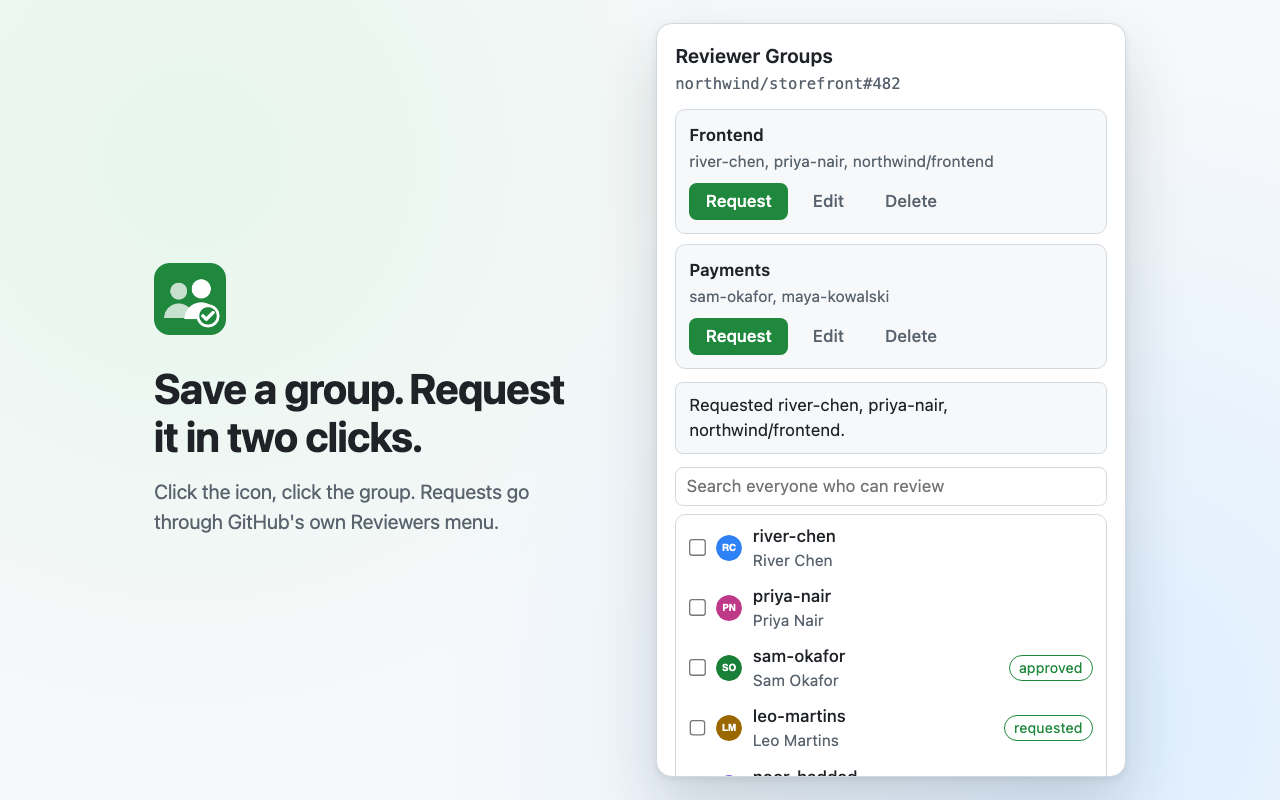
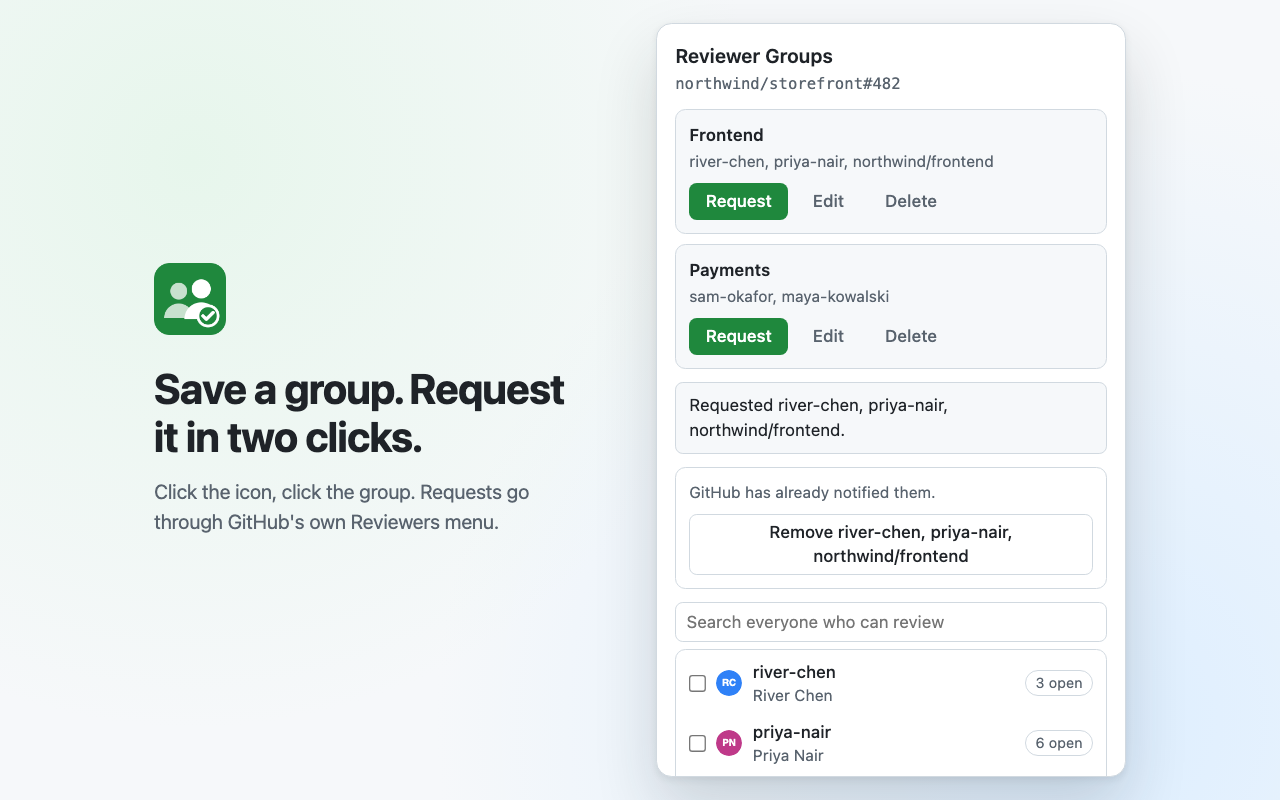
docs: refresh the store screenshots for 1.1.0 with saved groups and open request counts

diff --git a/screenshots/scenes.tsx b/screenshots/scenes.tsx
@@ -133,10 +133,22 @@ const waitForInput = async (label: string): Promise<HTMLInputElement> => {
 
 const settle = () => new Promise((resolve) => setTimeout(resolve, 400));
 
+const openRequestsByLogin: Record<string, number> = {
+  "river-chen": 2,
+  "priya-nair": 5,
+  "sam-okafor": 1,
+  "maya-kowalski": 3,
+  "noor-haddad": 0,
+  "leo-martins": 4,
+};
+
+const countOpenRequests = (login: string) =>
+  Promise.resolve({ ok: true as const, count: openRequestsByLogin[login] ?? 1 });
+
 const pickScene: Scene = {
   title: "Tick reviewers. Request them all at once.",
   caption: "Open it on a pull request: everyone GitHub lets you request is listed, teams included.",
-  groups: [],
+  groups,
   draft: { selection: ["river-chen", "priya-nair", "northwind/frontend"], editingGroupId: null },
   play: async () => {
     await waitForButton("Request 3");
@@ -158,7 +170,7 @@ const scenes: Record<string, Scene> = {
   search: {
     title: "Search everyone who can review.",
     caption: "Not only the suggestions: search finds anyone GitHub would let you request.",
-    groups: [],
+    groups,
     draft: { selection: ["maya-kowalski"], editingGroupId: null },
     play: async () => {
       typeInto(await waitForInput("Search people"), "ma");
@@ -225,7 +237,7 @@ const renderScene = async (root: HTMLElement, scene: Scene, layout: "store" | "s
           }
           openRequests={
             new OpenRequestCounter({
-              countInTab: () => Promise.resolve({ ok: true, count: 1 }),
+              countInTab: countOpenRequests,
               area: { get: () => Promise.resolve({}), set: () => Promise.resolve() },
             })
           }
